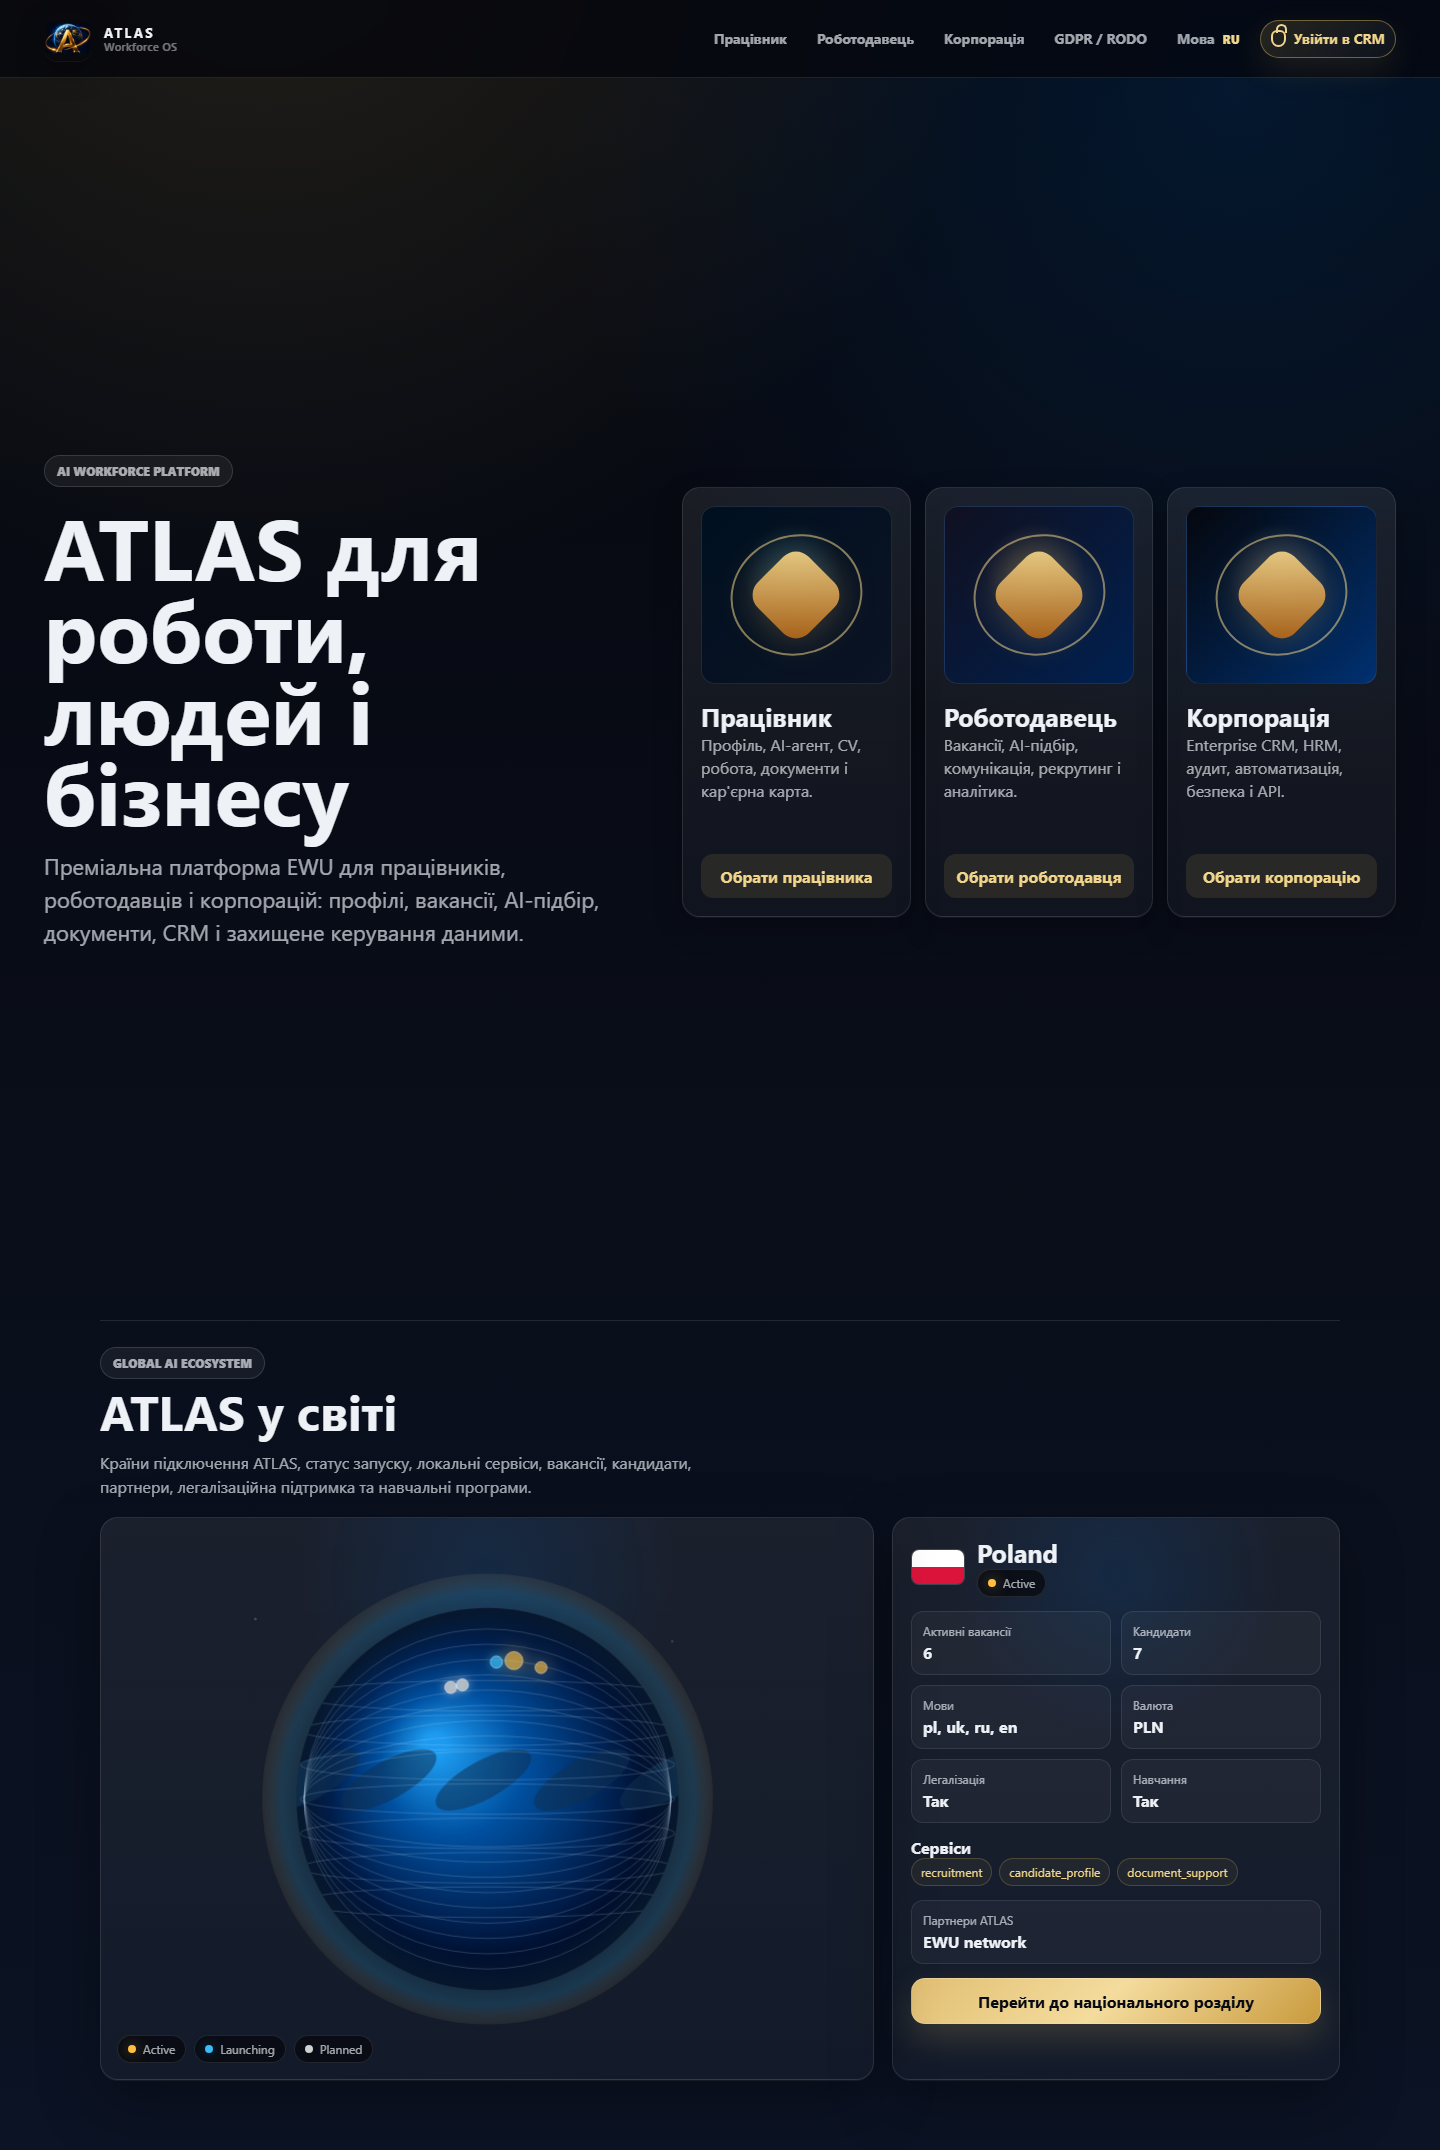
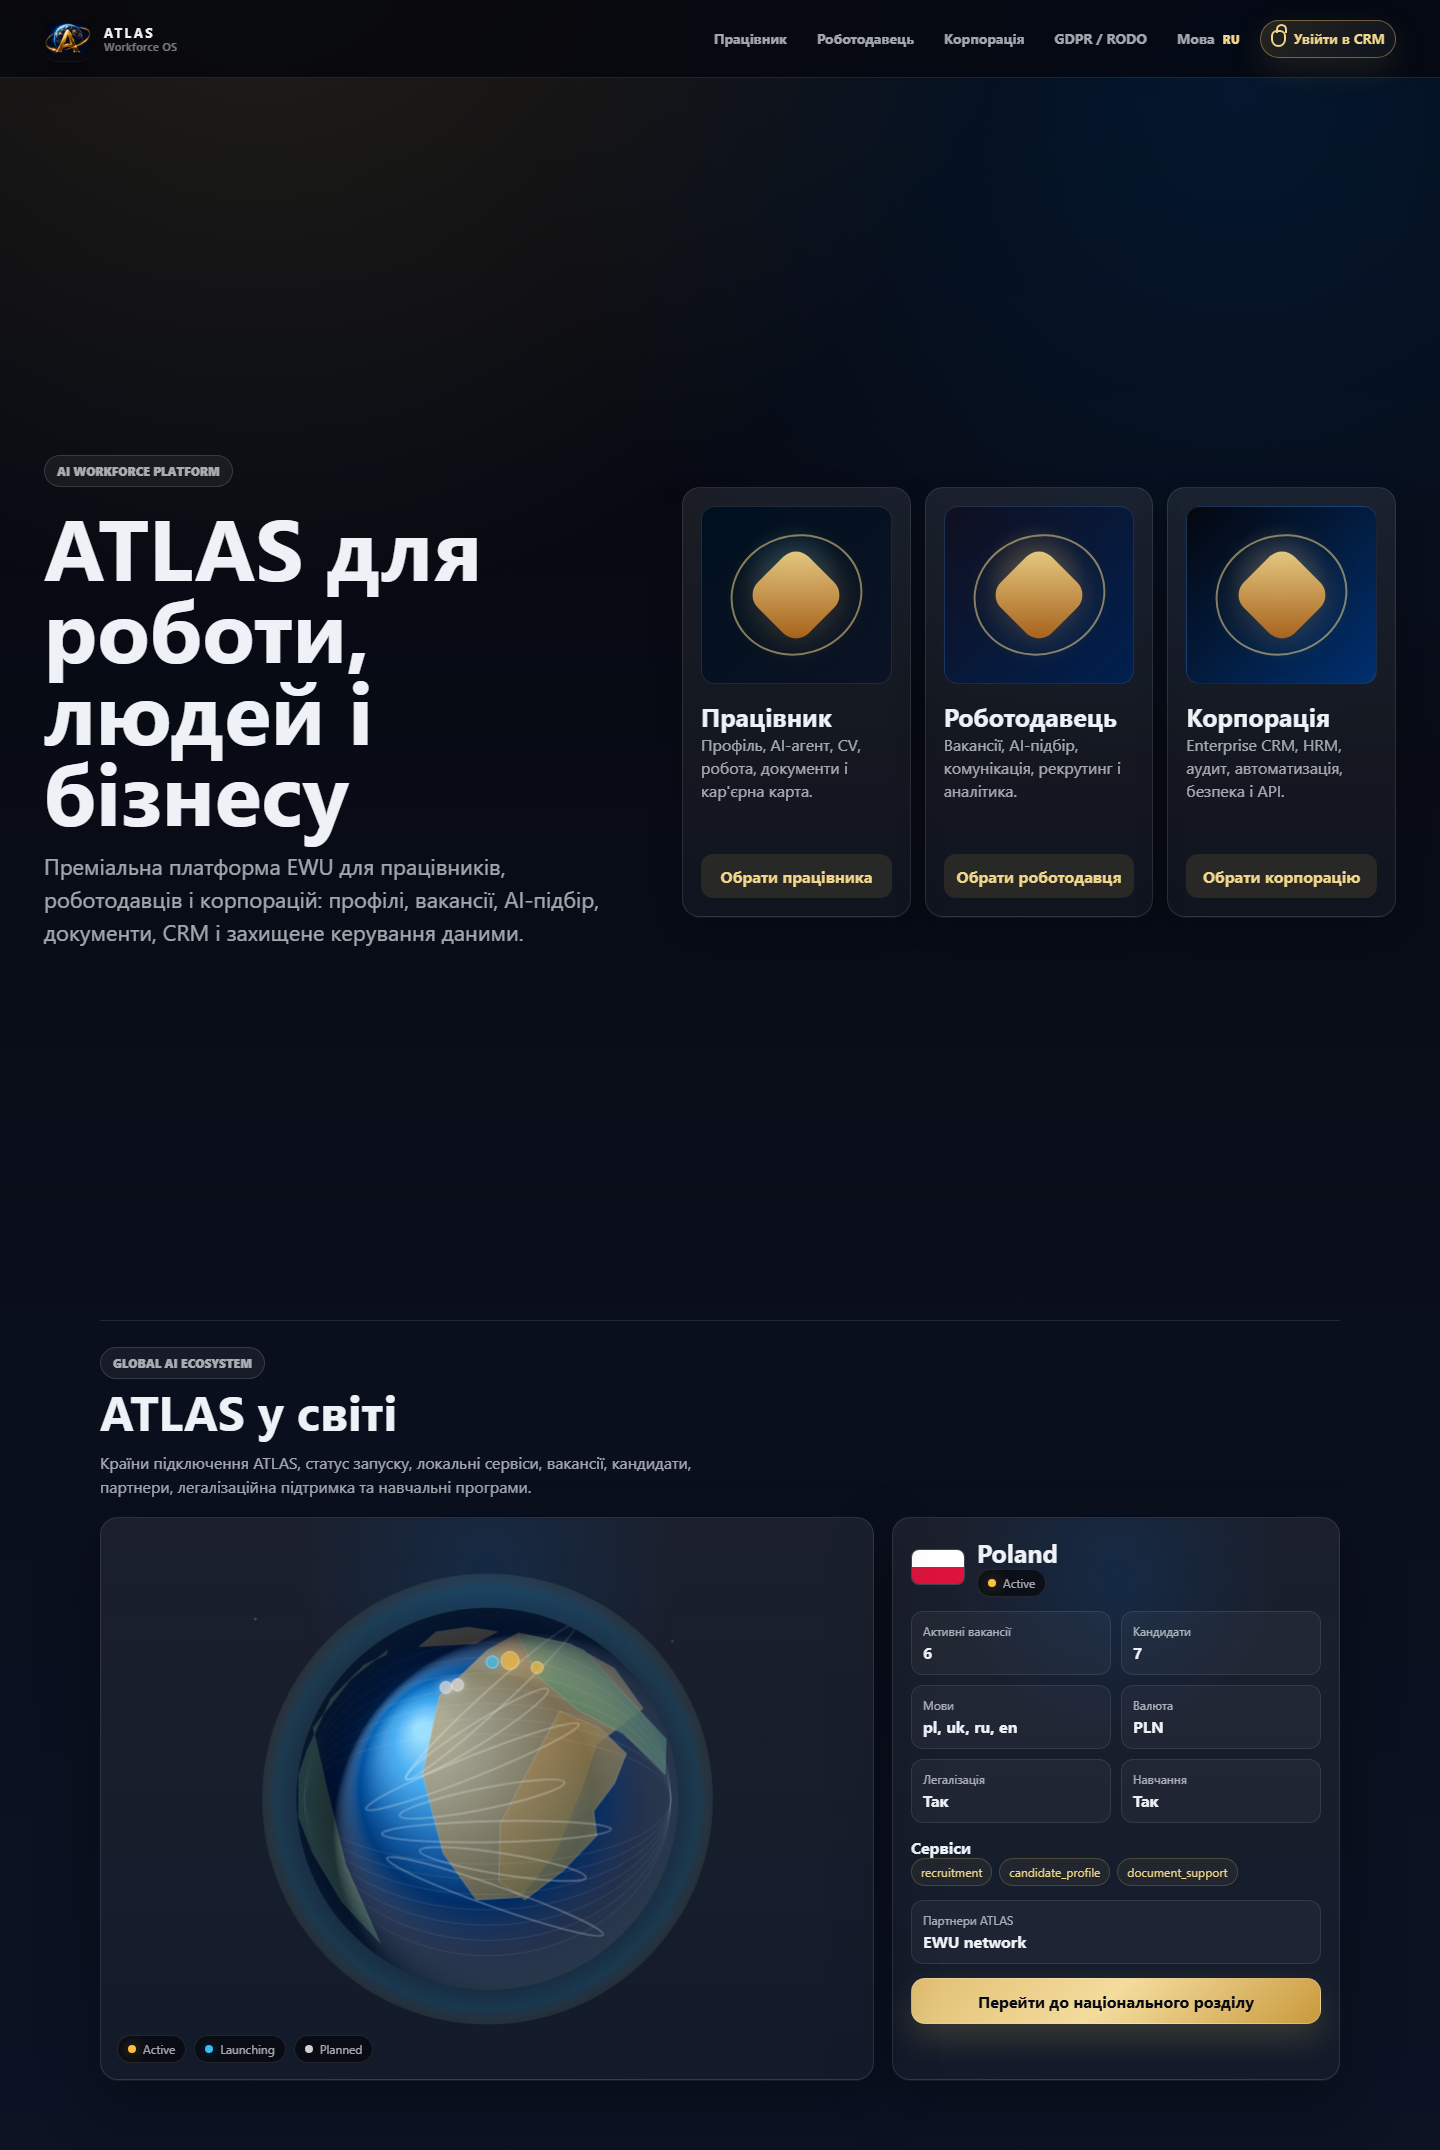
Refine ATLAS country globe rendering

Changed region(s): [[0.1875, 0.7479, 0.4688, 0.9349]]

diff --git a/api/main_interface.py b/api/main_interface.py
@@ -679,6 +679,19 @@ GLOBE_SCRIPT = """
     let selected = null;
     let dragging = false;
     let lastX = 0;
+    const landMasses = [
+      [[72,-168],[69,-128],[55,-104],[50,-82],[35,-82],[16,-92],[8,-78],[-6,-76],[-18,-66],[-36,-62],[-55,-70],[-22,-45],[5,-50],[24,-81],[43,-70],[58,-92],[70,-135]],
+      [[36,-10],[58,8],[71,38],[62,75],[48,92],[31,80],[18,45],[4,38],[-18,30],[-34,20],[-35,4],[-18,-6],[8,-12]],
+      [[70,35],[62,72],[58,116],[48,146],[32,134],[20,104],[8,78],[22,58],[30,42],[44,30]],
+      [[30,34],[24,48],[15,57],[5,50],[-4,42],[-12,44],[-24,34],[-35,22],[-28,12],[-8,12],[12,22]],
+      [[-10,112],[-18,125],[-28,146],[-40,146],[-44,126],[-32,112]],
+      [[72,-52],[78,-20],[72,18],[62,0],[60,-38]],
+    ];
+    const lightCities = [
+      [52.5,13.4],[52.2,21.0],[50.4,30.5],[48.9,2.3],[51.5,-0.1],[41.9,12.5],[40.4,-3.7],[38.7,-9.1],
+      [41.0,29.0],[30.0,31.2],[25.2,55.3],[28.6,77.2],[35.7,139.7],[37.5,127.0],[31.2,121.5],[1.3,103.8],
+      [40.7,-74.0],[34.0,-118.2],[-23.5,-46.6],[-34.6,-58.4],[-33.9,151.2]
+    ];
 
     function supportsWebGL() {
       try {
@@ -718,10 +731,11 @@ GLOBE_SCRIPT = """
     }
 
     function drawEarth(cx, cy, radius) {
-      const ocean = ctx.createRadialGradient(cx - radius * 0.28, cy - radius * 0.28, radius * 0.06, cx, cy, radius);
-      ocean.addColorStop(0, "#1d9bf0");
-      ocean.addColorStop(0.34, "#0050a0");
-      ocean.addColorStop(0.72, "#002050");
+      const ocean = ctx.createRadialGradient(cx - radius * 0.34, cy - radius * 0.36, radius * 0.04, cx, cy, radius);
+      ocean.addColorStop(0, "#85d7ff");
+      ocean.addColorStop(0.18, "#1d9bf0");
+      ocean.addColorStop(0.45, "#0050a0");
+      ocean.addColorStop(0.74, "#002050");
       ocean.addColorStop(1, "#000010");
       ctx.fillStyle = ocean;
       ctx.beginPath();
@@ -732,40 +746,29 @@ GLOBE_SCRIPT = """
       ctx.beginPath();
       ctx.arc(cx, cy, radius, 0, Math.PI * 2);
       ctx.clip();
-      ctx.globalAlpha = 0.52;
-      ctx.fillStyle = "#103050";
-      for (let i = -2; i < 3; i += 1) {
-        ctx.beginPath();
-        ctx.ellipse(cx + i * radius * 0.42 + Math.sin(rotation / 30 + i) * 20, cy - radius * 0.1, radius * 0.28, radius * 0.1, -0.5, 0, Math.PI * 2);
-        ctx.fill();
-      }
-      ctx.globalAlpha = 0.42;
+      drawLandMasses(cx, cy, radius);
+      drawNightLights(cx, cy, radius);
+      drawCloudBands(cx, cy, radius);
+      ctx.globalAlpha = 0.24;
       ctx.strokeStyle = "rgba(224,240,255,0.45)";
       ctx.lineWidth = 1;
-      for (let i = 0; i < 9; i += 1) {
+      for (let i = 0; i < 7; i += 1) {
         ctx.beginPath();
-        ctx.ellipse(cx, cy, radius * (0.25 + i * 0.08), radius * 0.96, Math.PI / 2, 0, Math.PI * 2);
+        ctx.ellipse(cx, cy, radius * (0.34 + i * 0.08), radius * 0.96, Math.PI / 2, 0, Math.PI * 2);
         ctx.stroke();
-      }
-      for (let i = -3; i <= 3; i += 1) {
-        ctx.beginPath();
-        ctx.ellipse(cx, cy + i * radius * 0.18, radius * 0.98, radius * 0.08, 0, 0, Math.PI * 2);
-        ctx.stroke();
-      }
-      if (!lowPower) {
-        ctx.globalAlpha = 0.68;
-        ctx.fillStyle = "rgba(255,192,64,0.74)";
-        for (let i = 0; i < 56; i += 1) {
-          const a = (i * 47 + rotation * 1.5) * Math.PI / 180;
-          const rr = radius * (0.18 + (i % 9) * 0.075);
-          const px = cx + Math.cos(a) * rr;
-          const py = cy + Math.sin(a) * rr * 0.58;
-          ctx.fillRect(px, py, 1.4, 1.4);
-        }
       }
       ctx.restore();
 
-      const atmosphere = ctx.createRadialGradient(cx, cy, radius * 0.82, cx, cy, radius * 1.18);
+      const shade = ctx.createRadialGradient(cx - radius * 0.34, cy - radius * 0.28, radius * 0.2, cx + radius * 0.24, cy + radius * 0.18, radius * 1.05);
+      shade.addColorStop(0, "rgba(255,255,255,0.2)");
+      shade.addColorStop(0.48, "rgba(255,255,255,0)");
+      shade.addColorStop(1, "rgba(0,0,16,0.62)");
+      ctx.fillStyle = shade;
+      ctx.beginPath();
+      ctx.arc(cx, cy, radius, 0, Math.PI * 2);
+      ctx.fill();
+
+      const atmosphere = ctx.createRadialGradient(cx, cy, radius * 0.8, cx, cy, radius * 1.22);
       atmosphere.addColorStop(0, "rgba(56,189,248,0)");
       atmosphere.addColorStop(0.72, "rgba(56,189,248,0.18)");
       atmosphere.addColorStop(1, "rgba(240,213,139,0.08)");
@@ -773,6 +776,68 @@ GLOBE_SCRIPT = """
       ctx.beginPath();
       ctx.arc(cx, cy, radius * 1.18, 0, Math.PI * 2);
       ctx.fill();
+    }
+
+    function drawLandMasses(cx, cy, radius) {
+      landMasses.forEach((points, index) => {
+        const projected = points.map(([lat, lon]) => project(lat, lon, radius, cx, cy)).filter(point => point.z > -0.22);
+        if (projected.length < 3) return;
+        const landGradient = ctx.createLinearGradient(cx - radius, cy - radius, cx + radius, cy + radius);
+        landGradient.addColorStop(0, index % 2 ? "#d5bb86" : "#7fa36c");
+        landGradient.addColorStop(0.52, index % 2 ? "#8d7446" : "#4e7b5c");
+        landGradient.addColorStop(1, "#234a48");
+        ctx.globalAlpha = 0.82;
+        ctx.fillStyle = landGradient;
+        ctx.strokeStyle = "rgba(224,240,255,0.24)";
+        ctx.lineWidth = 1;
+        ctx.beginPath();
+        projected.forEach((point, pointIndex) => {
+          if (pointIndex === 0) ctx.moveTo(point.x, point.y);
+          else ctx.lineTo(point.x, point.y);
+        });
+        ctx.closePath();
+        ctx.fill();
+        ctx.stroke();
+      });
+      ctx.globalAlpha = 1;
+    }
+
+    function drawNightLights(cx, cy, radius) {
+      if (lowPower) return;
+      lightCities.forEach(([lat, lon]) => {
+        const point = project(lat, lon, radius, cx, cy);
+        if (point.z < -0.08) return;
+        const glow = Math.max(0.25, point.z);
+        ctx.globalAlpha = glow;
+        ctx.fillStyle = "rgba(255,192,64,0.86)";
+        ctx.shadowColor = "rgba(255,192,64,0.72)";
+        ctx.shadowBlur = 12;
+        ctx.beginPath();
+        ctx.arc(point.x, point.y, 1.6 + point.z * 1.4, 0, Math.PI * 2);
+        ctx.fill();
+      });
+      ctx.shadowBlur = 0;
+      ctx.globalAlpha = 1;
+    }
+
+    function drawCloudBands(cx, cy, radius) {
+      ctx.globalAlpha = 0.34;
+      ctx.strokeStyle = "rgba(238,241,246,0.78)";
+      ctx.lineWidth = 2;
+      for (let i = -3; i <= 3; i += 1) {
+        ctx.beginPath();
+        ctx.ellipse(
+          cx + Math.sin(rotation / 22 + i) * radius * 0.08,
+          cy + i * radius * 0.17,
+          radius * (0.44 + (Math.abs(i) % 2) * 0.16),
+          radius * 0.055,
+          -0.2 + i * 0.18,
+          0,
+          Math.PI * 2
+        );
+        ctx.stroke();
+      }
+      ctx.globalAlpha = 1;
     }
 
     function drawRoutes(cx, cy, radius) {